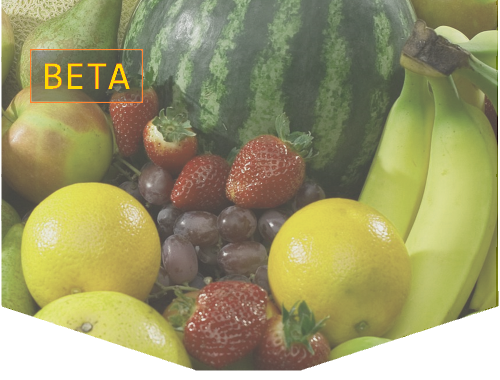
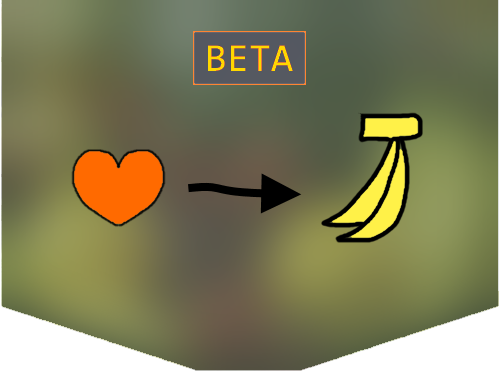
1.0 release

diff --git a/src/main/java/the_gatherer/cards/CursedBlade.java b/src/main/java/the_gatherer/cards/CursedBlade.java
@@ -26,12 +26,12 @@ public class CursedBlade extends CustomCard implements OnObtainEffect, OnceEffec
 	private static final CardStrings cardStrings = CardCrawlGame.languagePack.getCardStrings(ID);
 	public static final String NAME = cardStrings.NAME;
 	public static final String IMG = GathererMod.GetCardPath(RAW_ID);
-	private static final int COST = 1;
+	private static final int COST = 2;
 	public static final String DESCRIPTION = cardStrings.DESCRIPTION;
 	public static final String[] EXTENDED_DESCRIPTION = cardStrings.EXTENDED_DESCRIPTION;
 	private static final CardType TYPE = CardType.ATTACK;
 	private static final CardColor COLOR = CardColorEnum.LIME;
-	private static final CardRarity RARITY = CardRarity.COMMON;
+	private static final CardRarity RARITY = CardRarity.RARE;
 	private static final CardTarget TARGET = CardTarget.ENEMY;
 
 	private static final int POWER = 30;

diff --git a/src/main/java/the_gatherer/GathererMod.java b/src/main/java/the_gatherer/GathererMod.java
@@ -68,7 +68,7 @@ public class GathererMod implements PostInitializeSubscriber,
 
 	public static final String GATHERER_BADGE = "GathererMod/img/badge.png";
 	public static final String GATHERER_BUTTON = "GathererMod/img/character/gatherer/button.png";
-	public static final String GATHERER_PORTRAIT = "GathererMod/img/character/gatherer/PortraitBG.jpg";
+	public static final String GATHERER_PORTRAIT = "GathererMod/img/character/gatherer/PortraitBG.png";
 	public static final String GATHERER_SHOULDER_1 = "GathererMod/img/character/gatherer/shoulder.png";
 	public static final String GATHERER_SHOULDER_2 = "GathererMod/img/character/gatherer/shoulder2.png";
 	public static final String GATHERER_CORPSE = "GathererMod/img/character/gatherer/corpse.png";

diff --git a/src/main/java/the_gatherer/actions/CentralizeAction.java b/src/main/java/the_gatherer/actions/CentralizeAction.java
@@ -60,6 +60,10 @@ public class CentralizeAction extends AbstractGameAction {
 					AbstractDungeon.player.hand.refreshHandLayout();
 					AbstractDungeon.player.hand.applyPowers();
 				}
+				if (upgrade) {
+					card.upgrade();
+					card.superFlash();
+				}
 
 				this.isDone = true;
 			} else if (tmp.size() <= this.amount) {

diff --git a/README.md b/README.md
@@ -4,7 +4,7 @@ GathererMod adds a new character for Slay The Spire, The Gatherer. Contains 75 c
 The main focus of The Gatherer is the Potion. She has a potion Sack which can hold 3 "lesser" potions. The contents of the sack are gone at the end of each combat, so it's better to use them all. Especially when there are powers that care about using potions. There are other mechanics as well, like cards which care about unique cards, or cards with on-gain effects.
 
 ## Gameplay
-will add here
+Will add later
 
 ## Current State and Goal
 GathererMod is currently at alpha. Any feedback is welcomed.
